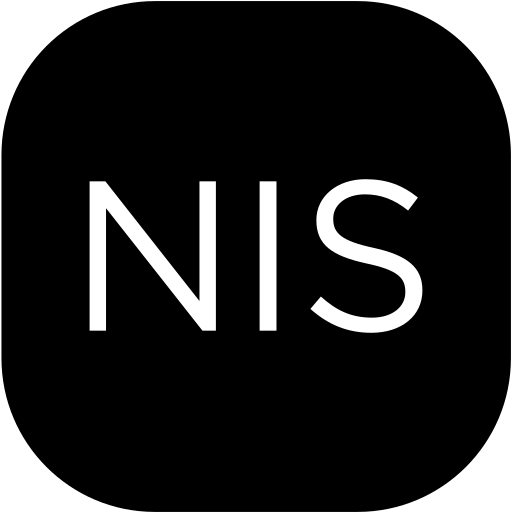
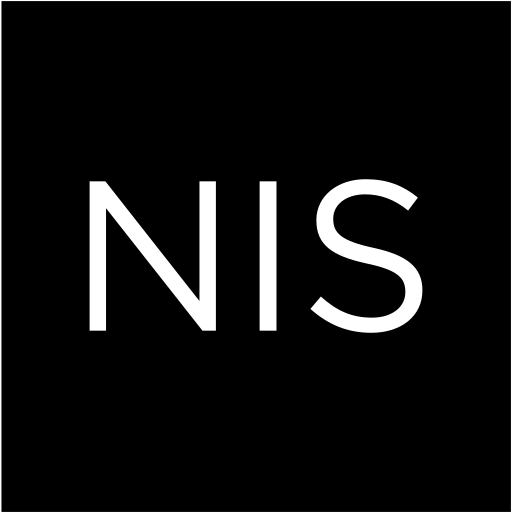
fixes

diff --git a/WebPatch/index.html b/WebPatch/index.html
@@ -181,7 +181,7 @@
 
     <body>
         <div id="title" style="margin-top: 1%; display: flex; justify-content: center">
-            <h2 style="color: black">Nis</h2>
+            <h2 style="color: black">NIS</h2>
         </div>
         <div style="display: flex; justify-content: center">
             <button id="pd4web-init" class="btn-obra">Iniciar obra</button>